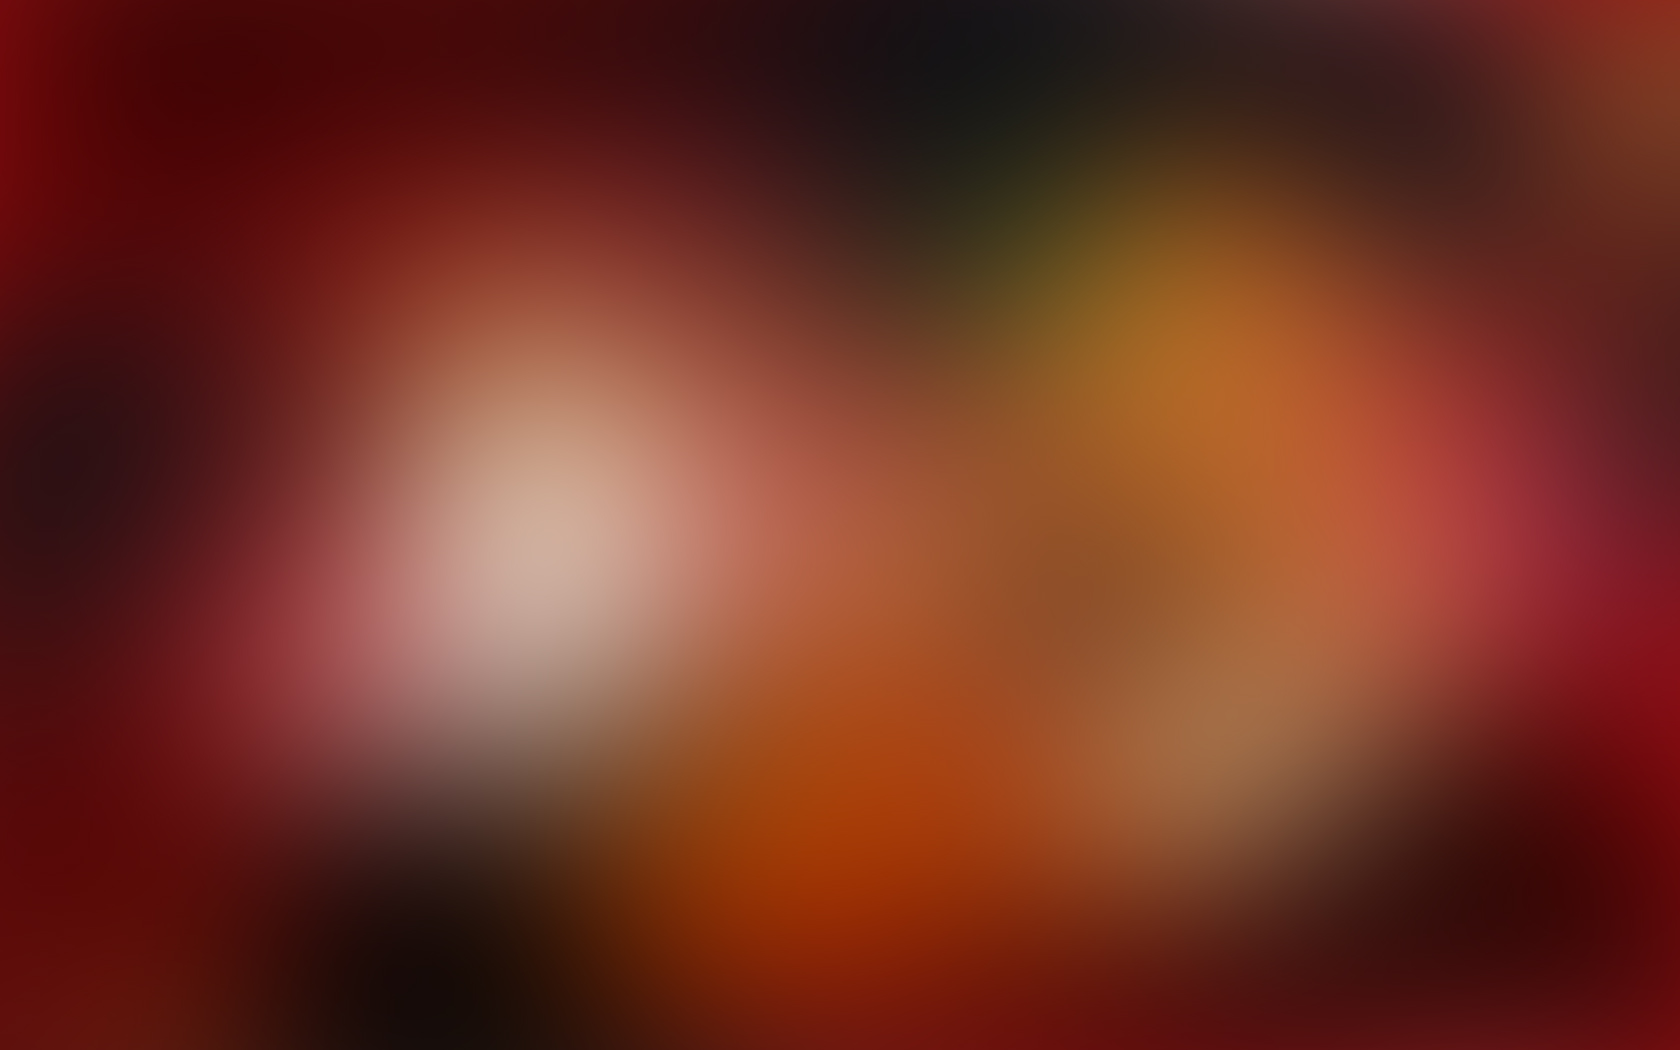
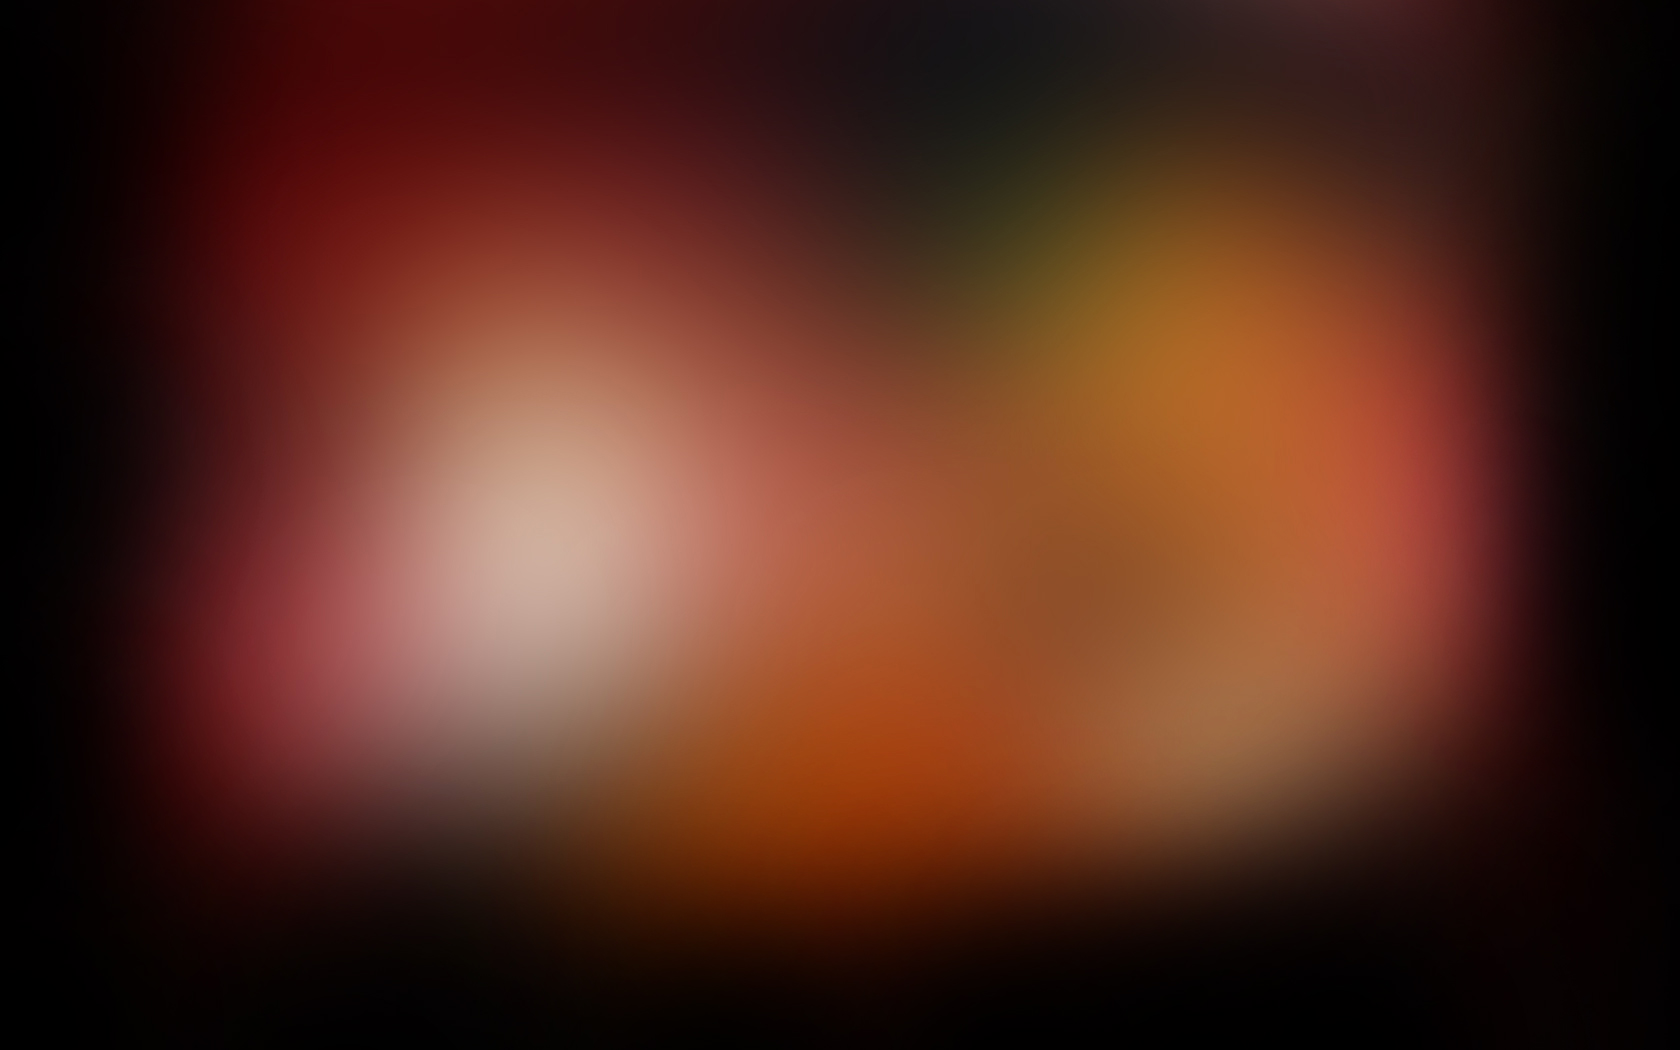
upDate
upDate

diff --git a/style/nav.css b/style/nav.css
@@ -4,7 +4,8 @@
 li{list-style:none;}
 a{text-decoration:none;color:#fff;}
 /*背景*/
-body{background:url(../img/bg.jpg) no-repeat;
+body{background:url(../img/bg.jpg) no-repeat center 0;
+background-color:#000; 
 background-attachment:fixed; }
 
 /*导航背景*/
